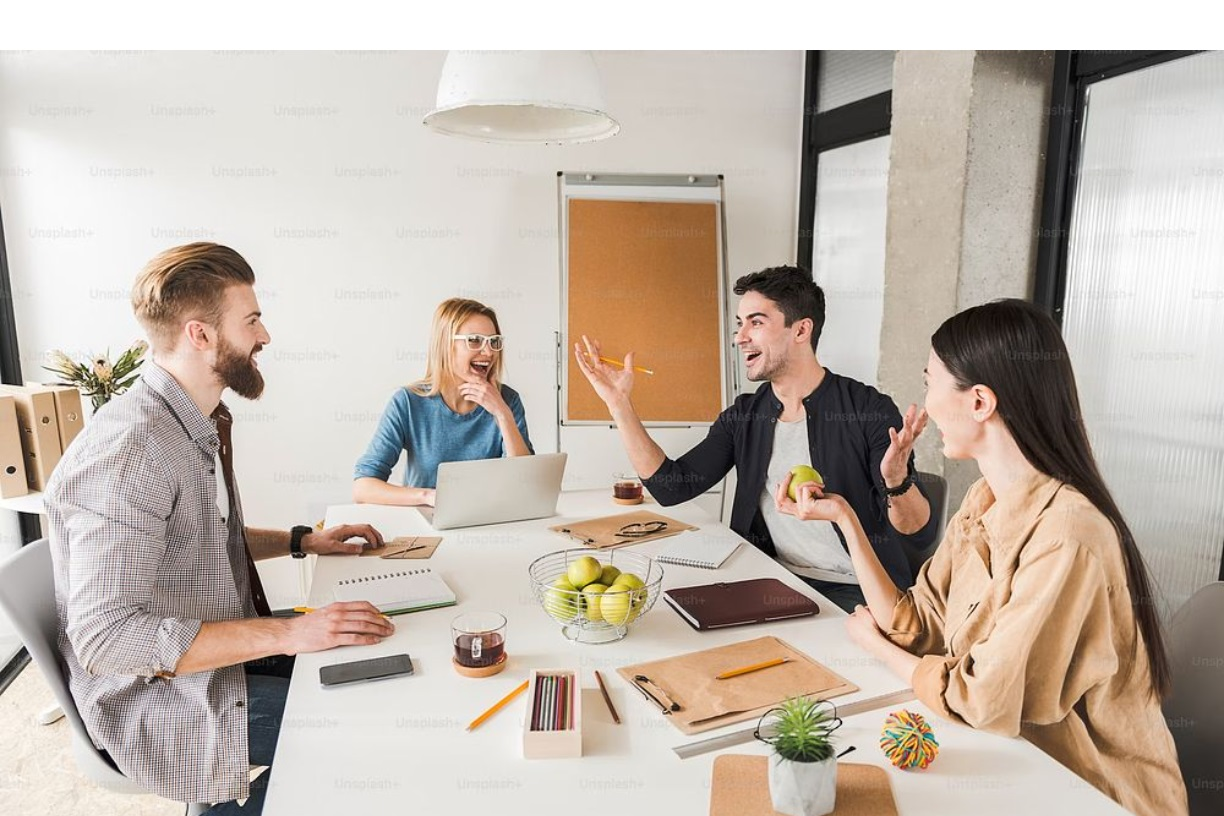
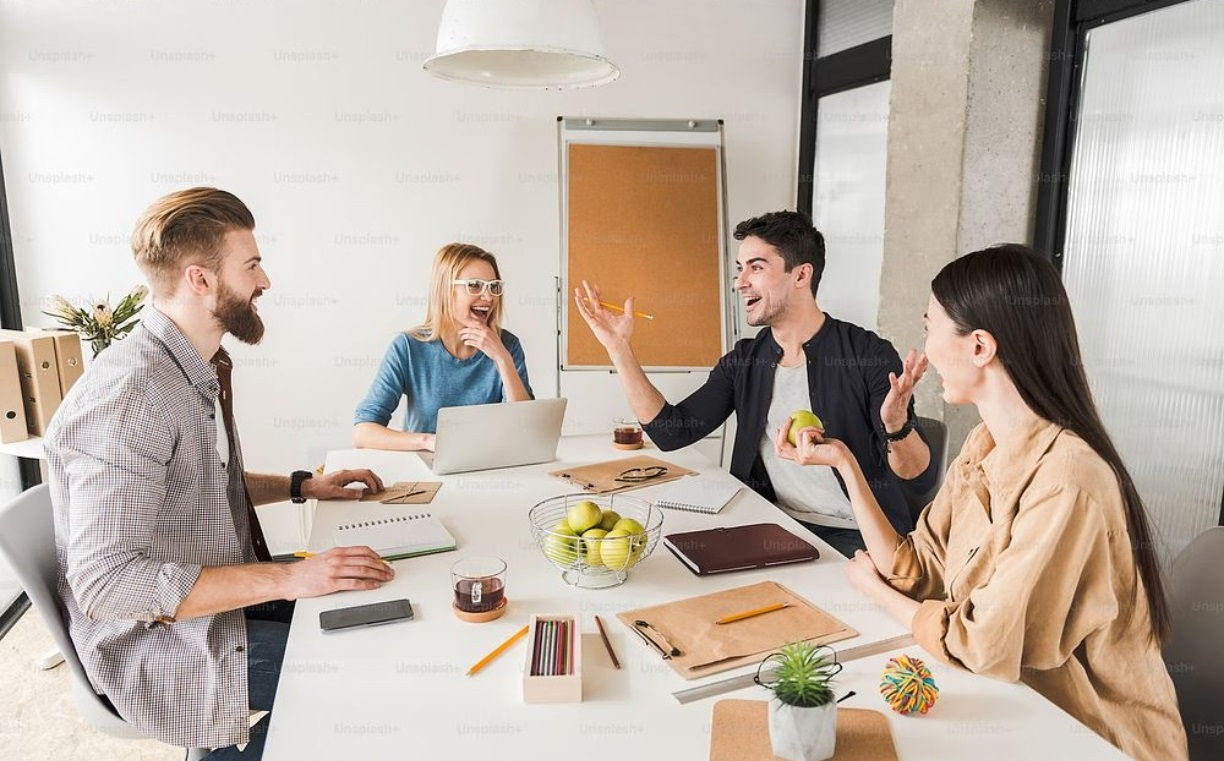
pruebafinalfinal

diff --git a/index.html b/index.html
@@ -127,8 +127,8 @@
       <div class="contenedor-central">
         <div class="contenedor-sn-grid">
           <div class="imagen-texto">
-          <img src="imagenes/sobre nosotros/sobre_nosotros_1.jpg" alt="nacional" class="nosotros">
-          <img src="imagenes/sobre nosotros/sobre_nosotros_2.jpg" alt="nacional" class="nosotros">
+          <img src="imagenes/sobre nosotros/sobre_nosotros_1.jpg" alt="nacional" style="max-width:85%;" class="nosotros">
+          <img src="imagenes/sobre nosotros/sobre_nosotros_2.jpg" alt="nacional" style="max-width:85%;" class="nosotros">
           </div>
           <div class="texto-nosotros">
             <p>
@@ -138,11 +138,7 @@
               voluptatum sit officia at dicta. Facilis obcaecati maiores,
               expedita sunt animi laudantium error quibusdam possimus cumque,
               exercitationem quaerat blanditiis minima quia laborum aspernatur
-              fuga aperiam nam quas quam libero sit doloremque. Error doloribus
-              nostrum quo! Suscipit nam ducimus fugit alias? Aliquid dolor
-              laudantium, quia, ipsa sit cumque voluptates quis ducimus
-              recusandae aliquam harum expedita exercitationem! Reprehenderit
-              voluptas quisquam dolorum omnis, alias esse laudantium quis dolor.
+              fuga aperiam nam quas quam libero sit doloremque.
             </p>
           </div>
         </div>
